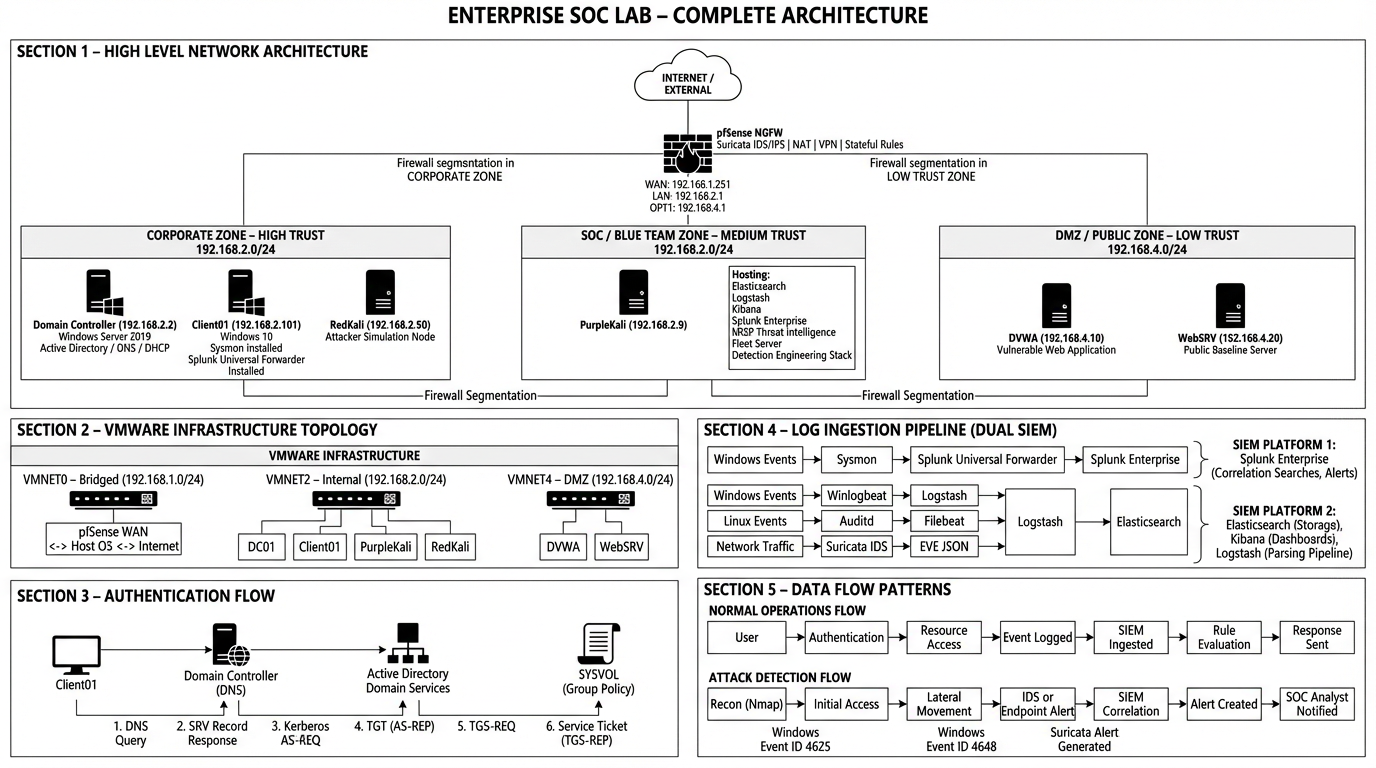
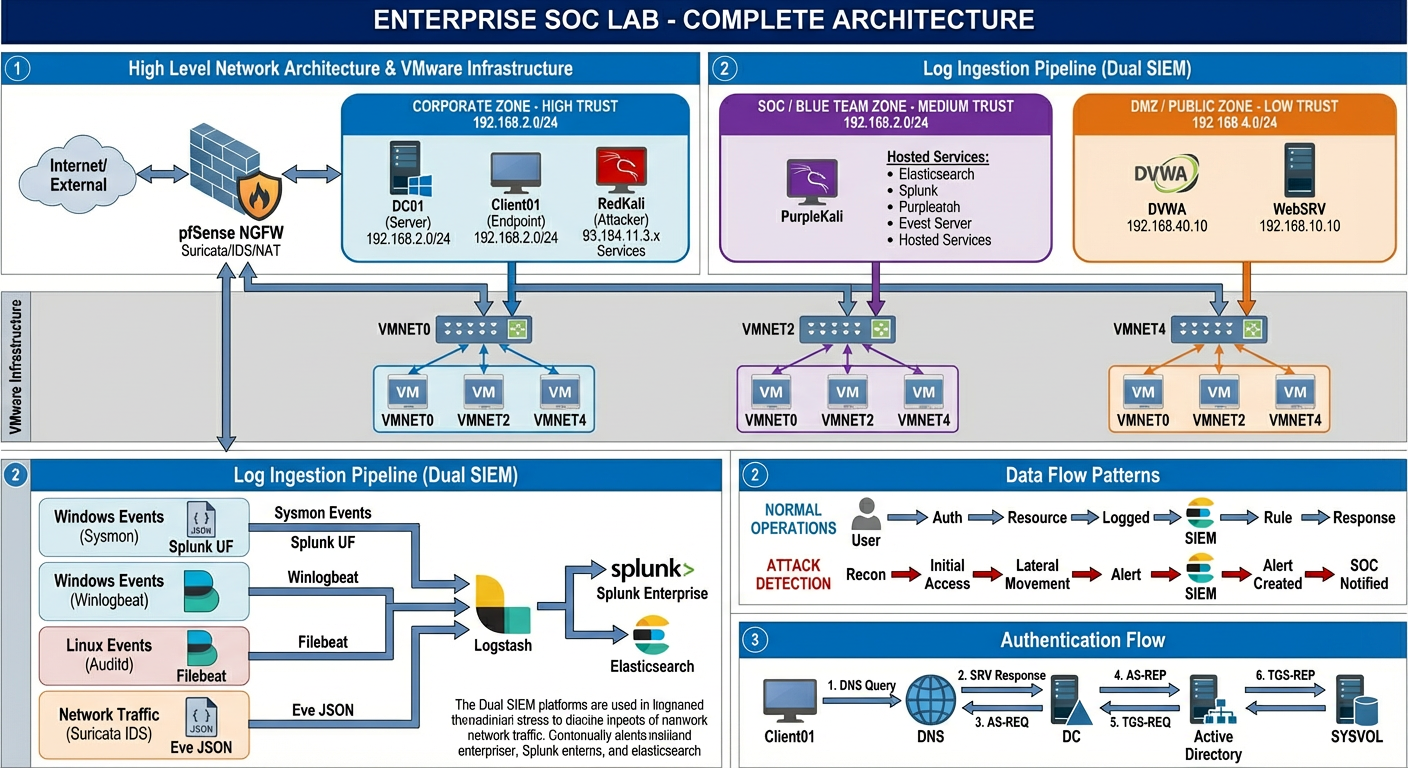
Update

diff --git a/README.md b/README.md
@@ -15,12 +15,14 @@ Do **not** use them directly in a live environment. Please configure your own IP
   <a href="#siem"><img src="https://img.shields.io/badge/SIEM-ELK%20|%20Splunk-green?style=for-the-badge&logo=elastic"/></a>
   <a href="#threat-intelligence"><img src="https://img.shields.io/badge/Threat%20Intel-MISP-red?style=for-the-badge"/></a>
   <a href="#attack-defense"><img src="https://img.shields.io/badge/MITRE-ATT%26CK-orange?style=for-the-badge"/></a>
-  <a href="#red-team"><img src="https://img.shields.io/badge/Purple%20Team-Validated-purple?style=for-the-badge"/></a>
+  <a href="#validation"><img src="https://img.shields.io/badge/Defense-Validation%20%26%20Testing-lightgrey?style=for-the-badge"/></a>
 </p>
 
+
 <p align="center">
-  <b>Production-Grade Cybersecurity Lab for Enterprise SOC Operations, Detection Engineering, and Purple Team Validation</b>
+  <b>Production-Grade Enterprise SOC Lab for Blue Team Operations, Detection Engineering, and Security Control Validation</b>
 </p>
+
 
 ---
 
